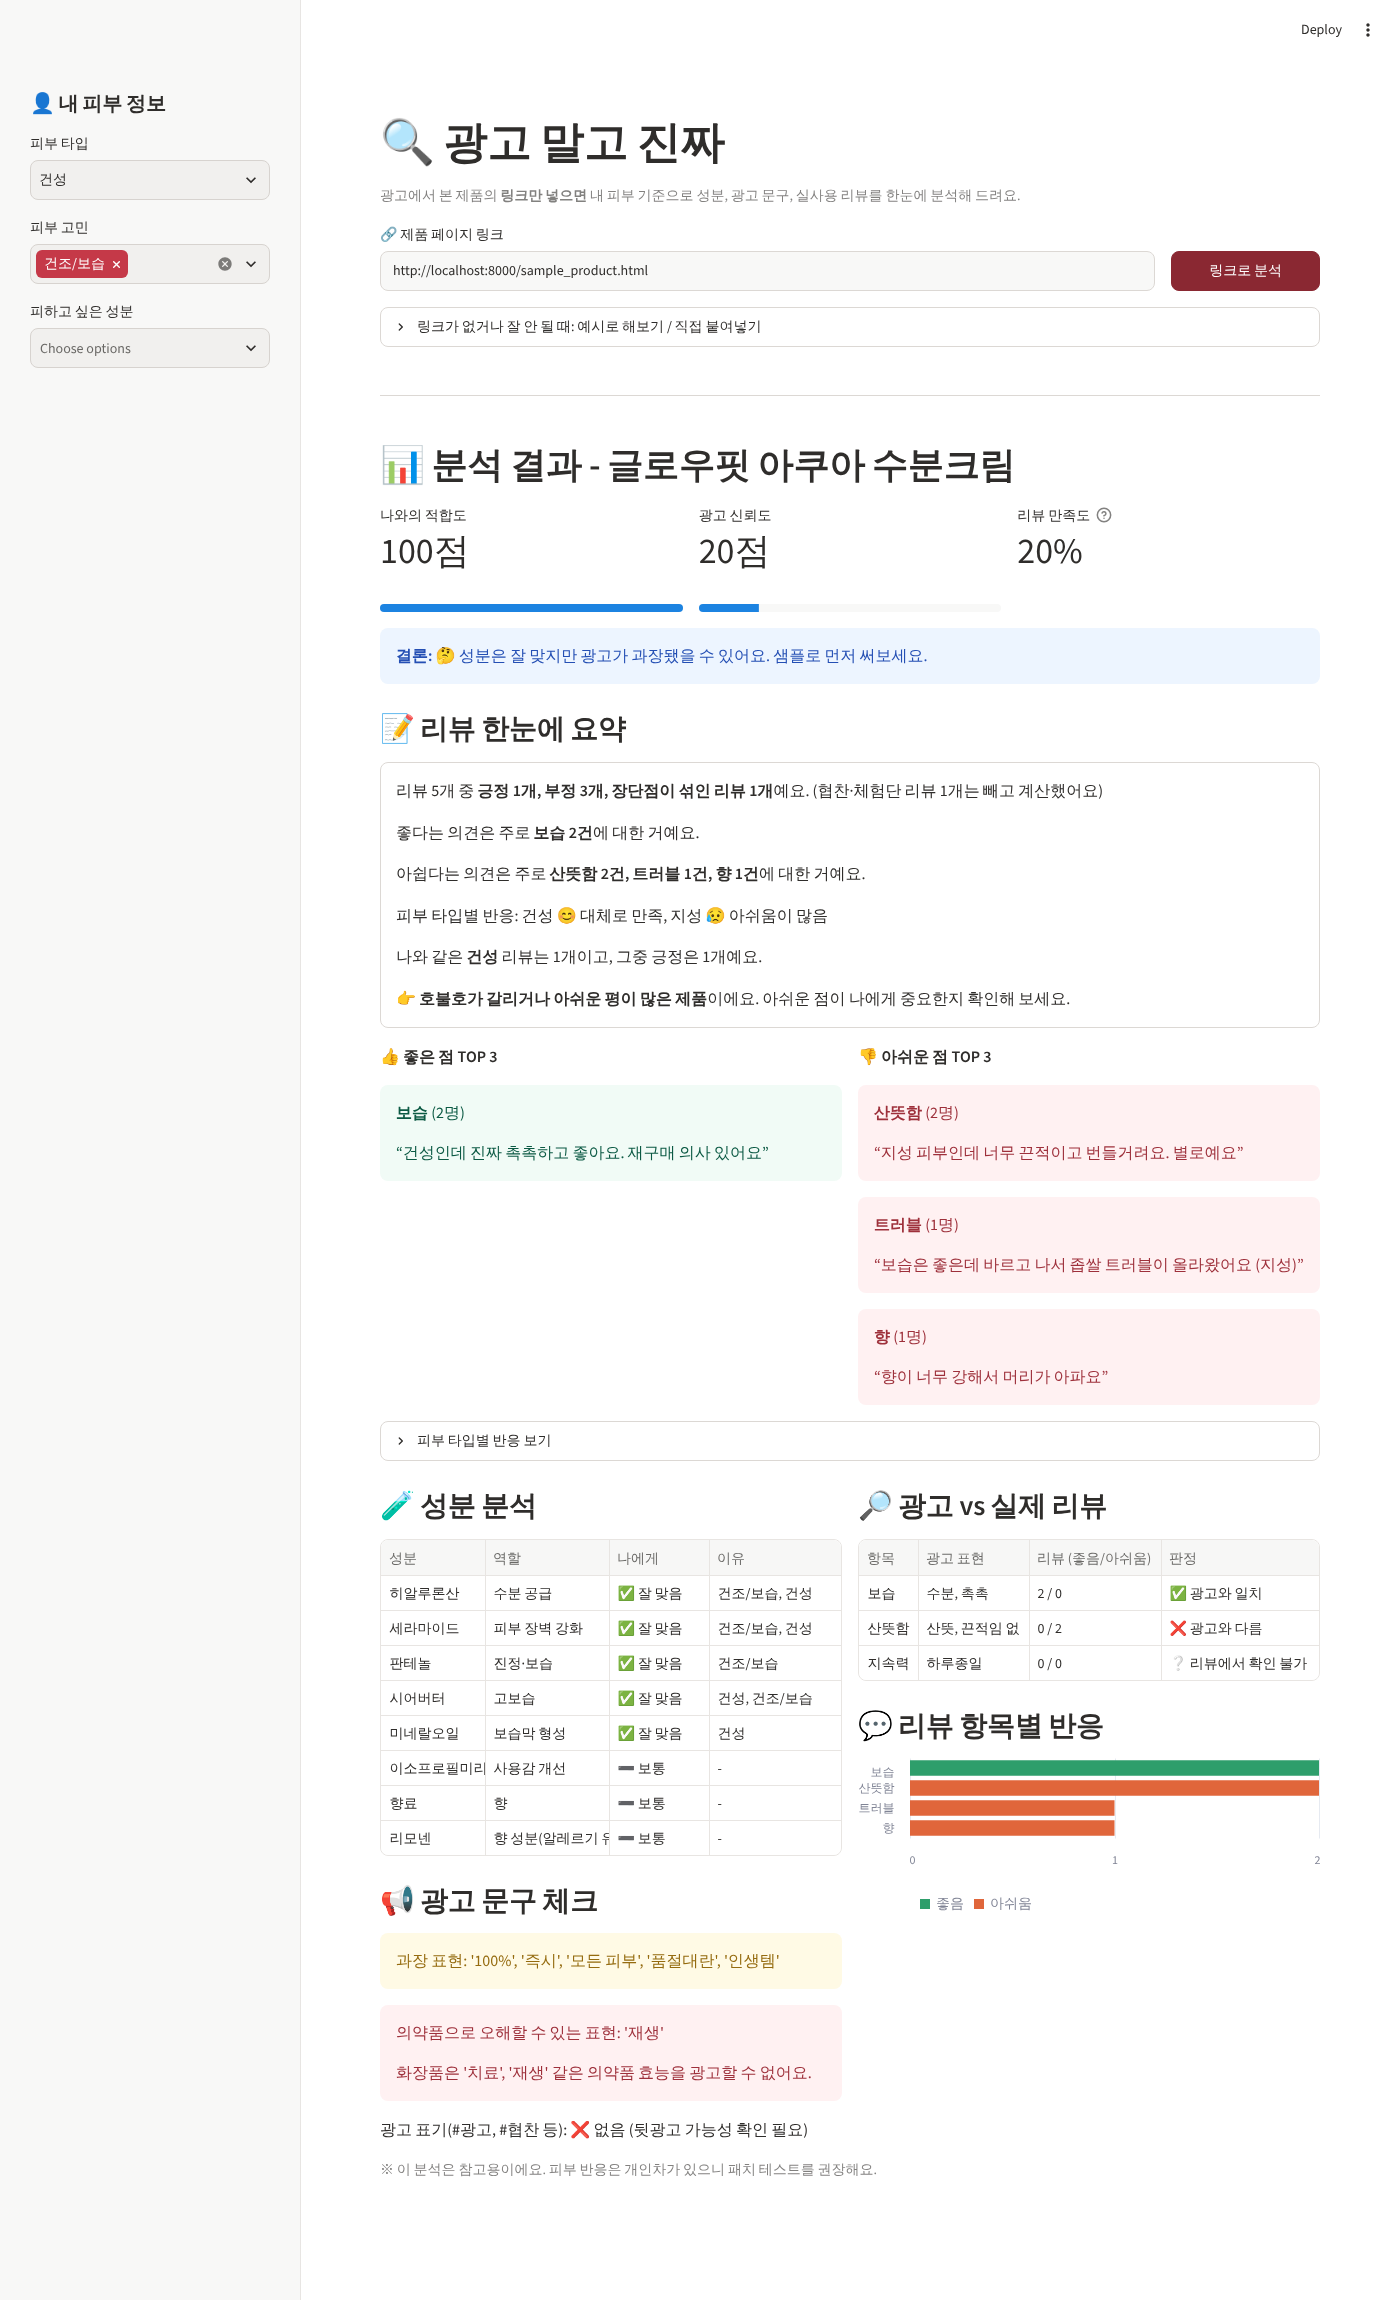
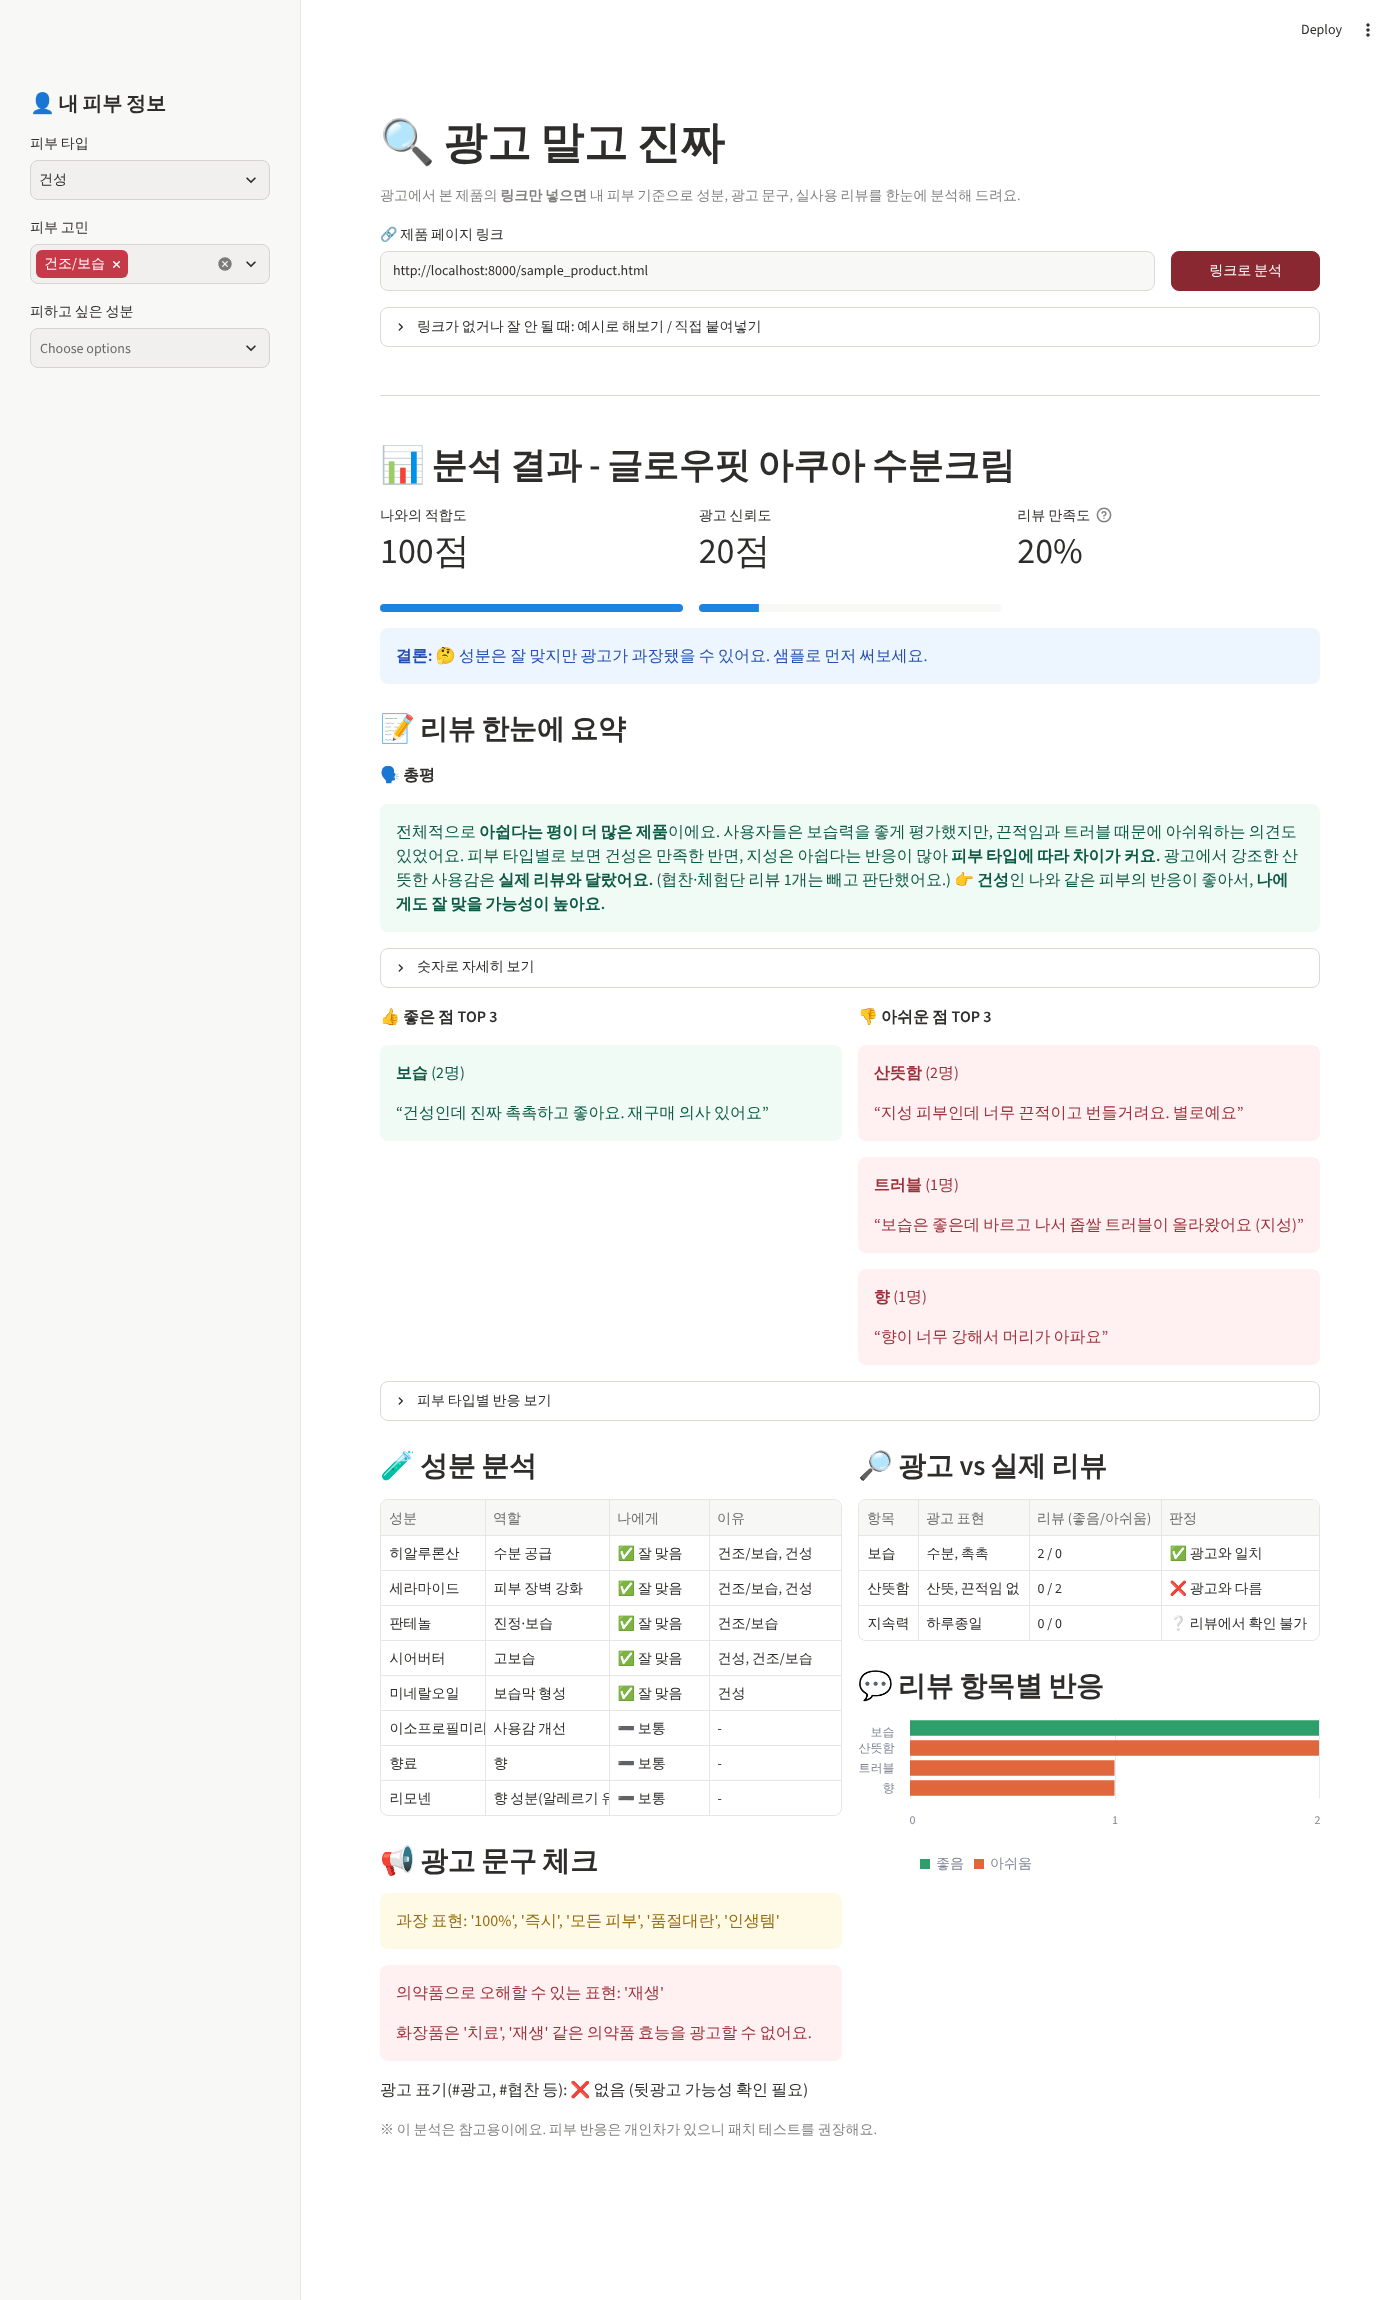
Add narrative overall review comment (총평)
Generate a flowing paragraph combining overall sentiment, top pros and
cons, skin-type differences, ad-vs-review mismatches, and a verdict for
the user's skin type, with Korean particle handling.

Claude-Session: https://claude.ai/code/session_01TKkDqmhNakBsfJxoSAEcEg

diff --git a/analyzer.py b/analyzer.py
@@ -330,3 +330,88 @@ def verdict_text(fit, trust):
     if fit >= 45:
         return "🤔 보통이에요. 주의 성분과 리뷰의 아쉬운 점을 확인해 보세요."
     return "✋ 나에게는 맞지 않을 가능성이 높아요. 다른 제품을 추천해요."
+
+
+# ---------------------------------------------------------------------------
+# 5. 총평: 리뷰, 피부 타입, 광고 비교 결과를 이어지는 문장으로 정리
+# ---------------------------------------------------------------------------
+GOOD_PHRASE = {"보습": "보습력", "진정/순함": "순하고 진정되는 느낌", "산뜻함": "산뜻한 사용감", "흡수": "빠른 흡수",
+               "트러블": "트러블이 적은 점", "미백/톤업": "톤업 효과", "백탁": "백탁이 없는 점", "지속력": "지속력",
+               "향": "향", "가격": "가성비"}
+BAD_PHRASE = {"보습": "건조함", "진정/순함": "자극", "산뜻함": "끈적임", "흡수": "잘 흡수되지 않는 점",
+              "트러블": "트러블", "미백/톤업": "효과를 못 느낀 점", "백탁": "백탁", "지속력": "짧은 지속력",
+              "향": "향", "가격": "가격"}
+
+
+def _josa(word, pair):
+    """받침에 따라 조사 고르기. pair 예: ('이', '가'), ('은', '는'), ('과', '와')"""
+    last = word[-1]
+    if "가" <= last <= "힣":
+        return word + (pair[0] if (ord(last) - 0xAC00) % 28 else pair[1])
+    return word + pair[0]
+
+
+def _join(words):
+    if len(words) == 1:
+        return words[0]
+    return ", ".join(words[:-1]) + ", " + words[-1] if len(words) > 2 else _josa(words[0], ("과", "와")) + " " + words[1]
+
+
+def overall_comment(reviews, claims, skin_type, fit):
+    n = reviews["count"]
+    if n == 0:
+        return "리뷰가 없어서 총평을 만들 수 없어요."
+    aspects = reviews["aspects"]
+    good = sorted((a for a in aspects if aspects[a]["좋음"]), key=lambda a: -aspects[a]["좋음"])[:2]
+    bad = sorted((a for a in aspects if aspects[a]["아쉬움"]), key=lambda a: -aspects[a]["아쉬움"])[:2]
+    pos, neg, mixed = reviews["positive"], reviews["negative"], reviews["mixed"]
+    out = []
+
+    # 1) 전체 분위기
+    if pos >= (neg + mixed) * 2:
+        out.append("전체적으로 **만족한다는 평이 많은 제품**이에요.")
+    elif neg > pos + mixed:
+        out.append("전체적으로 **아쉽다는 평이 더 많은 제품**이에요.")
+    else:
+        out.append("**호불호가 갈리는 제품**이에요.")
+
+    # 2) 장점과 단점
+    if good and bad:
+        out.append(f"사용자들은 {_josa(_join([GOOD_PHRASE[a] for a in good]), ('을', '를'))} 좋게 평가했지만, "
+                   f"{_join([BAD_PHRASE[a] for a in bad])} 때문에 아쉬워하는 의견도 있었어요.")
+    elif good:
+        out.append(f"특히 {_josa(_join([GOOD_PHRASE[a] for a in good]), ('을', '를'))} 좋게 평가했고, 눈에 띄는 불만은 적었어요.")
+    elif bad:
+        out.append(f"특히 {_join([BAD_PHRASE[a] for a in bad])}에 대한 불만이 많았어요.")
+
+    # 3) 피부 타입별 차이
+    liked = [s for s, r in reviews["by_skin"].items() if r["긍정"] > r["부정"] + r["혼합"]]
+    disliked = [s for s, r in reviews["by_skin"].items() if r["부정"] + r["혼합"] > r["긍정"]]
+    if liked and disliked:
+        out.append(f"피부 타입별로 보면 {_josa(', '.join(liked), ('은', '는'))} 만족한 반면, "
+                   f"{_josa(', '.join(disliked), ('은', '는'))} 아쉽다는 반응이 많아 **피부 타입에 따라 차이가 커요.**")
+    elif liked:
+        out.append(f"특히 {', '.join(liked)} 피부 사용자들의 만족도가 높았어요.")
+    elif disliked:
+        out.append(f"특히 {', '.join(disliked)} 피부 사용자들의 불만이 많았어요.")
+
+    # 4) 광고와 실제
+    differ = [c["항목"] for c in claims if c["판정"] == "❌ 광고와 다름"]
+    match = [c["항목"] for c in claims if c["판정"] == "✅ 광고와 일치"]
+    if differ:
+        out.append(f"광고에서 강조한 {_josa(_join([GOOD_PHRASE[a] for a in differ]), ('은', '는'))} **실제 리뷰와 달랐어요.**")
+    elif match:
+        out.append(f"광고에서 말한 {_josa(_join([GOOD_PHRASE[a] for a in match]), ('은', '는'))} 실제 리뷰에서도 확인됐어요.")
+    if reviews["sponsored"]:
+        out.append(f"(협찬·체험단 리뷰 {reviews['sponsored']}개는 빼고 판단했어요.)")
+
+    # 5) 나에게는?
+    if skin_type in liked:
+        out.append(f"👉 **{skin_type}**인 나와 같은 피부의 반응이 좋아서, **나에게도 잘 맞을 가능성이 높아요.**")
+    elif skin_type in disliked:
+        out.append(f"👉 **{skin_type}**인 나와 같은 피부의 반응이 좋지 않아서, **구매 전에 샘플로 먼저 써보는 게 좋아요.**")
+    elif fit >= 70:
+        out.append(f"👉 나와 같은 피부의 리뷰는 부족하지만, 성분으로 보면 **{skin_type}**인 나에게 잘 맞는 편이에요.")
+    else:
+        out.append(f"👉 나와 같은 피부의 리뷰가 부족하고 성분 적합도도 높지 않아서, **신중하게 고르는 게 좋아요.**")
+    return " ".join(out)

diff --git a/app.py b/app.py
@@ -108,7 +108,9 @@ st.info(f"**결론:** {az.verdict_text(fit, trust)}")
 if reviews["count"] or reviews["sponsored"]:
     st.subheader("📝 리뷰 한눈에 요약")
     summary = az.summarize_reviews(reviews, skin_type)
-    with st.container(border=True):
+    st.markdown("**🗣 총평**")
+    st.success(az.overall_comment(reviews, claims, skin_type, fit))
+    with st.expander("숫자로 자세히 보기", expanded=False):
         st.markdown(summary["text"])
     g, b = st.columns(2)
     with g:

diff --git a/README.md b/README.md
@@ -16,7 +16,7 @@
 | 🧪 성분 분석 | 전성분에서 주요 성분을 찾아 나에게 **잘 맞음 / 주의**로 분류 |
 | 📢 광고 문구 체크 | 과장 표현("100%", "즉시"), 의약품 오인 표현("치료", "재생"), #광고 표기 여부 확인 |
 | 🔎 광고 vs 실제 리뷰 | 광고가 주장한 효과(보습, 산뜻함, 백탁 없음 등)가 리뷰에서도 맞는지 비교 |
-| 📝 리뷰 한눈에 요약 | 전체 리뷰를 요약 문장으로 정리하고, 좋은 점/아쉬운 점 TOP 3를 대표 리뷰와 함께 보여줌 |
+| 📝 리뷰 한눈에 요약 | 리뷰, 피부 타입별 반응, 광고와 실제 차이를 묶은 **총평**을 문장으로 써주고, 좋은 점/아쉬운 점 TOP 3를 대표 리뷰와 함께 보여줌 |
 | 💬 리뷰 분석 | "보습은 좋은데 끈적여요"처럼 장단점이 섞인 리뷰도 나눠서 분석, 피부 타입별 반응, 협찬 리뷰는 빼고 계산 |
 | 📊 종합 점수 | 나와의 적합도, 광고 신뢰도, 한 줄 결론 |
 | ✍ 직접 붙여넣기 | 링크가 안 되는 사이트는 직접 붙여넣거나, 예시 제품 3개로 바로 시연 |
